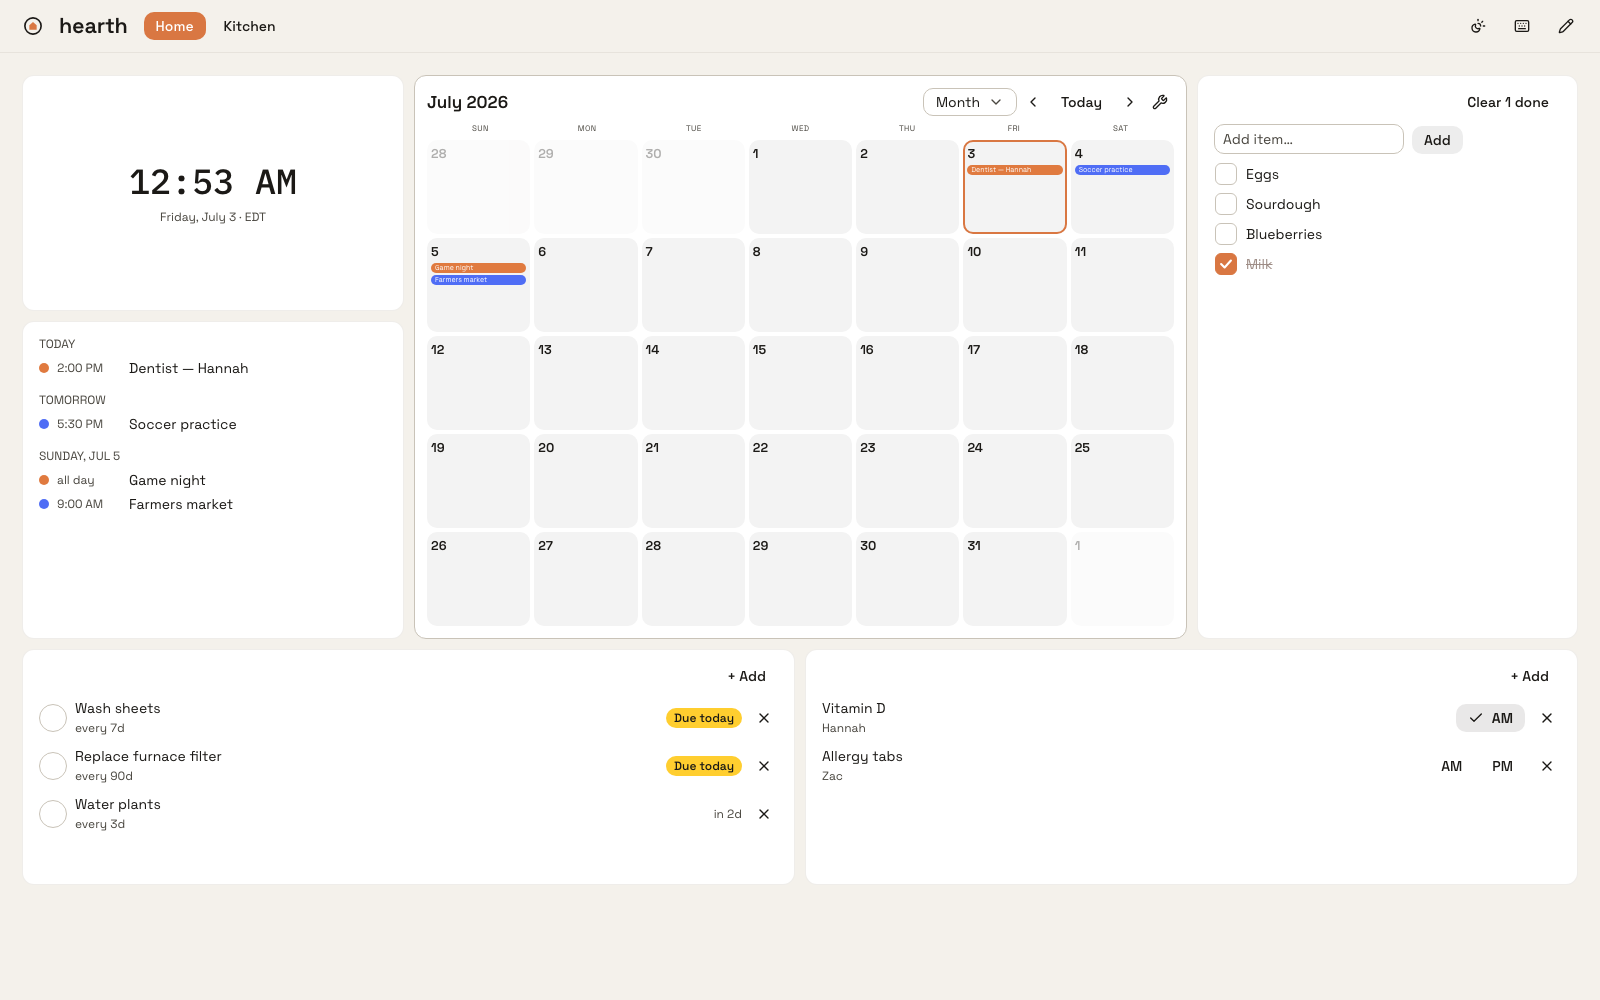
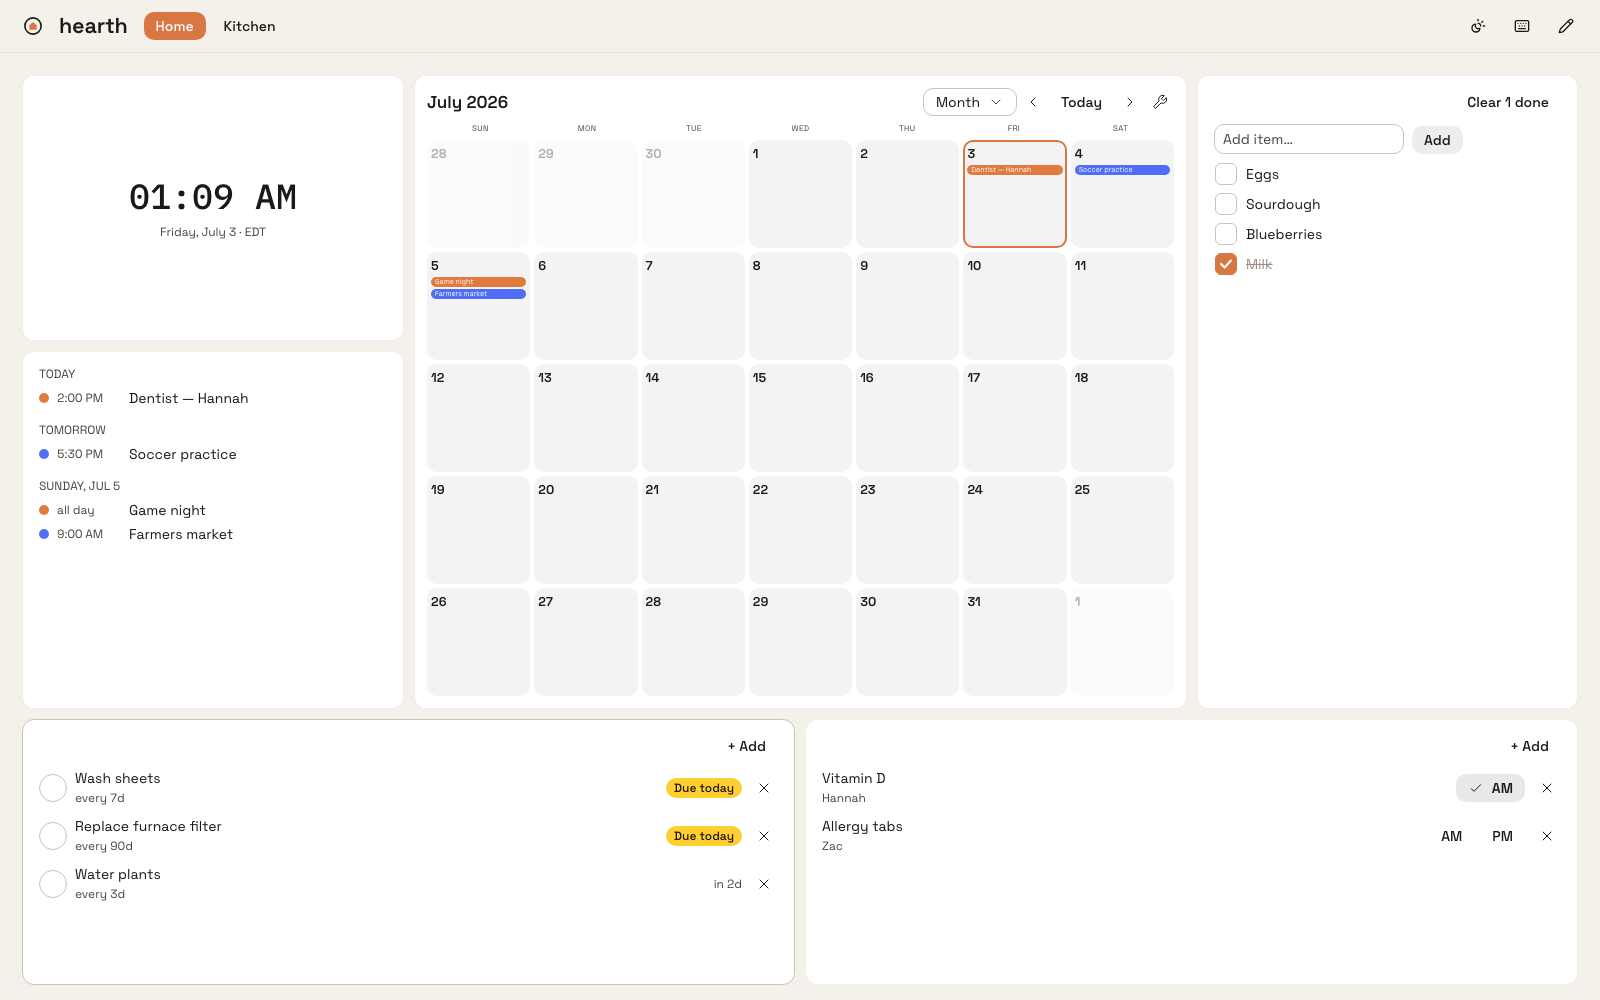
feat(brand): OLED near-black dark mode; proper pre-built theme wiring
Dark mode moves from warm Char to a bottomless neutral: body #0C0C0C
with cards lifted to #1B1B1B, neutral grey secondaries and borders —
chosen from five on-board candidates; ember reads hotter against the
void and warmth now lives in ember alone. Light mode keeps the
Paper/Char guideline palette. The brand-guard test still holds every
neutral-role token to zero warm saturation.

Theme wiring now uses the CLI's full output: astryx theme build emits
theme.css AND a prebuilt hearth.js module; the app imports that pair,
replacing the hand-rolled __built marker. Generated artifacts are
excluded from oxfmt — fixing the red CI check. README heroes re-shot
on the 24-column grid.

diff --git a/web/src/hearth.js b/web/src/hearth.js
@@ -1,0 +1,193 @@
+/**
+ * @generated by `astryx theme build` — do not edit manually.
+ * Source: src/theme.ts
+ * Command: astryx theme build src/theme.ts --out src/theme.css
+ * Generated: 2026-07-03T05:08:05.747Z
+ */
+
+/**
+ * hearth theme — built by `bunx astryx theme build`
+ * Import the CSS file alongside this module:
+ *
+ *   import { hearthTheme } from './hearth';
+ *   import './hearth.css';
+ */
+export const hearthTheme = {
+  name: 'hearth',
+  __built: true,
+  tokens: {
+    "--font-size-4xs": "0.375rem",
+    "--font-size-3xs": "0.4375rem",
+    "--font-size-2xs": "0.5rem",
+    "--font-size-xs": "0.625rem",
+    "--font-size-sm": "0.75rem",
+    "--font-size-base": "0.875rem",
+    "--font-size-lg": "1.0625rem",
+    "--font-size-xl": "1.25rem",
+    "--font-size-2xl": "1.5rem",
+    "--font-size-3xl": "1.8125rem",
+    "--font-size-4xl": "2.1875rem",
+    "--font-size-5xl": "2.625rem",
+    "--text-heading-1-size": "var(--font-size-2xl)",
+    "--text-heading-1-weight": "var(--font-weight-semibold)",
+    "--text-heading-1-leading": "1.3333",
+    "--text-heading-2-size": "var(--font-size-xl)",
+    "--text-heading-2-weight": "var(--font-weight-semibold)",
+    "--text-heading-2-leading": "1.4",
+    "--text-heading-3-size": "var(--font-size-lg)",
+    "--text-heading-3-weight": "var(--font-weight-bold)",
+    "--text-heading-3-leading": "1.4118",
+    "--text-heading-4-size": "var(--font-size-base)",
+    "--text-heading-4-weight": "var(--font-weight-bold)",
+    "--text-heading-4-leading": "1.4286",
+    "--text-heading-5-size": "var(--font-size-sm)",
+    "--text-heading-5-weight": "var(--font-weight-semibold)",
+    "--text-heading-5-leading": "1.6667",
+    "--text-heading-6-size": "var(--font-size-xs)",
+    "--text-heading-6-weight": "var(--font-weight-semibold)",
+    "--text-heading-6-leading": "1.6",
+    "--text-body-size": "var(--font-size-base)",
+    "--text-body-weight": "var(--font-weight-normal)",
+    "--text-body-leading": "1.4286",
+    "--text-large-size": "var(--font-size-lg)",
+    "--text-large-weight": "var(--font-weight-semibold)",
+    "--text-large-leading": "1.4118",
+    "--text-label-size": "var(--font-size-base)",
+    "--text-label-weight": "var(--font-weight-medium)",
+    "--text-label-leading": "1.4286",
+    "--text-code-size": "var(--font-size-base)",
+    "--text-code-weight": "var(--font-weight-normal)",
+    "--text-code-leading": "1.4286",
+    "--text-supporting-size": "var(--font-size-sm)",
+    "--text-supporting-weight": "var(--font-weight-normal)",
+    "--text-supporting-leading": "1.6667",
+    "--text-display-1-size": "var(--font-size-5xl)",
+    "--text-display-1-weight": "var(--font-weight-normal)",
+    "--text-display-1-leading": "1.2381",
+    "--text-display-2-size": "var(--font-size-4xl)",
+    "--text-display-2-weight": "var(--font-weight-normal)",
+    "--text-display-2-leading": "1.2571",
+    "--text-display-3-size": "var(--font-size-3xl)",
+    "--text-display-3-weight": "var(--font-weight-normal)",
+    "--text-display-3-leading": "1.3793",
+    "--duration-fast-min": "95ms",
+    "--duration-fast": "125ms",
+    "--duration-fast-max": "165ms",
+    "--duration-medium-min": "225ms",
+    "--duration-medium": "300ms",
+    "--duration-medium-max": "400ms",
+    "--duration-slow-min": "525ms",
+    "--duration-slow": "700ms",
+    "--duration-slow-max": "935ms",
+    "--font-family-body": "\"Space Grotesk\", system-ui, sans-serif",
+    "--font-family-heading": "\"Space Grotesk\", system-ui, sans-serif",
+    "--font-family-code": "\"IBM Plex Mono\", ui-monospace, monospace",
+    "--color-syntax-keyword": "light-dark(#700084, #efa8ff)",
+    "--color-syntax-string": "light-dark(#005600, #a6d2a2)",
+    "--color-syntax-comment": "light-dark(#737373, #a3a3a3)",
+    "--color-syntax-number": "light-dark(#6e3500, #ffb37f)",
+    "--color-syntax-function": "light-dark(#00458c, #a0caff)",
+    "--color-syntax-type": "light-dark(#700084, #efa8ff)",
+    "--color-syntax-variable": "light-dark(#171717, #e5e5e5)",
+    "--color-syntax-operator": "light-dark(#737373, #a3a3a3)",
+    "--color-syntax-constant": "light-dark(#6e3500, #ffb37f)",
+    "--color-syntax-tag": "light-dark(#89001a, #ffaeaa)",
+    "--color-syntax-attribute": "light-dark(#584400, #eec12f)",
+    "--color-syntax-property": "light-dark(#005348, #83dac9)",
+    "--color-syntax-punctuation": "light-dark(#a3a3a3, #525252)",
+    "--color-syntax-background": "light-dark(#fafafa, #0a0a0a)",
+    "--color-background-surface": "light-dark(#FFFFFF, #1B1B1B)",
+    "--color-background-body": "light-dark(#F4F1EB, #0C0C0C)",
+    "--color-background-card": "light-dark(#FFFFFF, #1B1B1B)",
+    "--color-background-popover": "light-dark(#FFFFFF, #222222)",
+    "--color-background-muted": "light-dark(#1B19160D, #FFFFFF0F)",
+    "--color-accent": "light-dark(#D97742, #D97742)",
+    "--color-accent-muted": "light-dark(#D9774233, #E8A87C3F)",
+    "--color-neutral": "light-dark(#1B191614, #FFFFFF1F)",
+    "--color-overlay": "light-dark(#1B191666, #000000A6)",
+    "--color-overlay-hover": "light-dark(#1B19160C, #FFFFFF0C)",
+    "--color-overlay-pressed": "light-dark(#1B191619, #FFFFFF17)",
+    "--color-text-primary": "light-dark(#1B1916, #F4F1EB)",
+    "--color-text-secondary": "light-dark(#4A4740, #ABABA6)",
+    "--color-text-disabled": "light-dark(#9E8D86, #6A5B54)",
+    "--color-text-accent": "light-dark(#7F2C00, #FFB58E)",
+    "--color-on-dark": "#ffffff",
+    "--color-on-light": "#171717",
+    "--color-on-accent": "light-dark(#FFFFFF, #1B1916)",
+    "--color-on-success": "light-dark(#ffffff, #171717)",
+    "--color-on-error": "light-dark(#ffffff, #171717)",
+    "--color-on-warning": "#171717",
+    "--color-icon-accent": "light-dark(#9C4411, #FFB58E)",
+    "--color-icon-primary": "light-dark(#1B1916, #F4F1EB)",
+    "--color-icon-secondary": "light-dark(#4A4740, #ABABA6)",
+    "--color-icon-disabled": "light-dark(#9E8D86, #6A5B54)",
+    "--color-success": "light-dark(#007004, #9fe59b)",
+    "--color-error": "light-dark(#a50c25, #ffc6c1)",
+    "--color-warning": "light-dark(#745b00, #fdcf4f)",
+    "--color-success-muted": "light-dark(#c5e5c0, #84c9803D)",
+    "--color-error-muted": "light-dark(#facecb, #ff9e973D)",
+    "--color-warning-muted": "light-dark(#f8da9d, #deb4333D)",
+    "--color-border": "light-dark(#C9C3B84D, #FFFFFF14)",
+    "--color-border-emphasized": "light-dark(#C9C3B8, #3A3A3A)",
+    "--color-skeleton": "light-dark(#C9C3B8, #3A3A3A)",
+    "--color-shadow": "light-dark(#0000001A, #0000004D)",
+    "--color-tint-hover": "light-dark(black, white)",
+    "--color-background-red": "light-dark(#facecb, #ff9e973D)",
+    "--color-border-red": "light-dark(#e6bab8, #ff6f6c)",
+    "--color-icon-red": "light-dark(#89001a, #ff9e97)",
+    "--color-text-red": "light-dark(#89001a, #ffc6c1)",
+    "--color-background-orange": "light-dark(#fad0b5, #ffa2583D)",
+    "--color-border-orange": "light-dark(#e6bda2, #e2883e)",
+    "--color-icon-orange": "light-dark(#6e3500, #ffa258)",
+    "--color-text-orange": "light-dark(#6e3500, #ffc9a2)",
+    "--color-background-yellow": "light-dark(#f8da9d, #deb4333D)",
+    "--color-border-yellow": "light-dark(#e4c279, #c0990e)",
+    "--color-icon-yellow": "light-dark(#584400, #deb433)",
+    "--color-text-yellow": "light-dark(#584400, #fdcf4f)",
+    "--color-background-green": "light-dark(#c5e5c0, #84c9803D)",
+    "--color-border-green": "light-dark(#b2d1ac, #69ad67)",
+    "--color-icon-green": "light-dark(#0c5700, #84c980)",
+    "--color-text-green": "light-dark(#0c5700, #9fe59b)",
+    "--color-background-teal": "light-dark(#a5e3d6, #7ec6b83D)",
+    "--color-border-teal": "light-dark(#94d6c8, #63ab9d)",
+    "--color-icon-teal": "light-dark(#005348, #7ec6b8)",
+    "--color-text-teal": "light-dark(#005348, #99e2d3)",
+    "--color-background-cyan": "light-dark(#a3e0ef, #83c2d43D)",
+    "--color-border-cyan": "light-dark(#91d3e3, #67a7b8)",
+    "--color-icon-cyan": "light-dark(#00505f, #83c2d4)",
+    "--color-text-cyan": "light-dark(#00505f, #9edef0)",
+    "--color-background-blue": "light-dark(#c4ddfb, #9eb7ff3D)",
+    "--color-border-blue": "light-dark(#b1c9e7, #6d9cfe)",
+    "--color-icon-blue": "light-dark(#00458c, #9eb7ff)",
+    "--color-text-blue": "light-dark(#00458c, #c7d3ff)",
+    "--color-background-purple": "light-dark(#eccef3, #f297ff3D)",
+    "--color-border-purple": "light-dark(#d8bbdf, #dd74f0)",
+    "--color-icon-purple": "light-dark(#700084, #f297ff)",
+    "--color-text-purple": "light-dark(#700084, #fac1ff)",
+    "--color-background-pink": "light-dark(#fccadc, #ff99c33D)",
+    "--color-border-pink": "light-dark(#e7b7c8, #f273aa)",
+    "--color-icon-pink": "light-dark(#83004b, #ff99c3)",
+    "--color-text-pink": "light-dark(#83004b, #ffc3da)",
+    "--color-background-gray": "light-dark(#e5e5e5, var(--color-neutral))",
+    "--color-border-gray": "light-dark(#d4d4d4, #262626)",
+    "--color-icon-gray": "light-dark(#525252, #a3a3a3)",
+    "--color-text-gray": "light-dark(#262626, #e5e5e5)",
+    "--radius-none": "0.25rem",
+    "--radius-inner": "0.375rem",
+    "--radius-element": "0.625rem",
+    "--radius-container": "0.75rem",
+    "--radius-page": "1.75rem",
+    "--radius-full": "9999px",
+    "--shadow-low": "0 2px 4px light-dark(oklch(0 0 0 / 5%), oklch(0 0 0 / 25%)), 0 4px 8px light-dark(oklch(0 0 0 / 10%), oklch(0 0 0 / 40%)), inset 0 0 0 1px light-dark(transparent, oklch(1 0 0 / 8%))",
+    "--shadow-med": "0 2px 4px light-dark(oklch(0 0 0 / 5%), oklch(0 0 0 / 35%)), 0 4px 12px light-dark(oklch(0 0 0 / 10%), oklch(0 0 0 / 50%)), inset 0 0 0 1px light-dark(transparent, oklch(1 0 0 / 12%))",
+    "--shadow-high": "0 4px 6px light-dark(oklch(0 0 0 / 10%), oklch(0 0 0 / 50%)), 0 12px 24px light-dark(oklch(0 0 0 / 15%), oklch(0 0 0 / 70%)), inset 0 0 0 1px light-dark(transparent, oklch(1 0 0 / 15%))",
+    "--shadow-inset-hover": "inset 0px 0px 0px 2px #0074e24D",
+    "--shadow-inset-selected": "inset 0px 0px 0px 2px #0074e280",
+    "--shadow-inset-success": "inset 0px 0px 0px 2px #1981004D",
+    "--shadow-inset-warning": "inset 0px 0px 0px 2px #ffce2f4D",
+    "--shadow-inset-error": "inset 0px 0px 0px 2px #e33f4a4D",
+    "--color-background-inverted": "light-dark(#1B1916, #F4F1EB)",
+    "--color-track": "light-dark(#C9C3B8, #3A3A3A)"
+  },
+
+};

diff --git a/web/src/theme.ts b/web/src/theme.ts
@@ -16,34 +16,38 @@ const theme = defineTheme({
     code: { family: "IBM Plex Mono", fallbacks: "ui-monospace, monospace" },
   },
   tokens: {
-    // (light, dark)
-    "--color-background-body": ["#F4F1EB", "#1B1916"], // Paper / Char
-    "--color-background-surface": ["#FFFFFF", "#201E1C"],
-    "--color-background-card": ["#FFFFFF", "#201E1C"],
-    "--color-background-muted": ["#1B19160D", "#F4F1EB0F"],
+    // (light, dark). Dark mode is OLED near-black: a bottomless neutral
+    // body with clearly lifted neutral cards — chosen over warm Char after
+    // on-board comparison; ember reads hotter against the void, and warmth
+    // stays where the brand wants it: in ember alone. Light mode keeps the
+    // Paper/Char doc palette.
+    "--color-background-body": ["#F4F1EB", "#0C0C0C"], // Paper / near-black
+    "--color-background-surface": ["#FFFFFF", "#1B1B1B"],
+    "--color-background-card": ["#FFFFFF", "#1B1B1B"],
+    "--color-background-muted": ["#1B19160D", "#FFFFFF0F"],
     "--color-text-primary": ["#1B1916", "#F4F1EB"], // Char / Paper
-    "--color-text-secondary": ["#4A4740", "#C9C3B8"], // Iron / Stone
-    "--color-border": ["#C9C3B84D", "#F4F1EB1A"],
-    "--color-border-emphasized": ["#C9C3B8", "#4A4740"], // Stone / Iron
+    "--color-text-secondary": ["#4A4740", "#ABABA6"], // Iron / neutral grey
+    "--color-border": ["#C9C3B84D", "#FFFFFF14"],
+    "--color-border-emphasized": ["#C9C3B8", "#3A3A3A"], // Stone / graphite
     "--color-accent": ["#D97742", "#D97742"], // Ember, accent only
     "--color-accent-muted": ["#D9774233", "#E8A87C3F"], // glow tints
     "--color-on-accent": ["#FFFFFF", "#1B1916"],
     // The color scale derives unlisted tokens from the ember hue, which
     // turns neutral ROLES brown. Pin every neutral role to the brand's
     // actual neutrals (guarded by theme.test.ts).
-    "--color-neutral": ["#1B191614", "#F4F1EB21"],
+    "--color-neutral": ["#1B191614", "#FFFFFF1F"],
     "--color-overlay": ["#1B191666", "#000000A6"],
-    "--color-overlay-hover": ["#1B19160C", "#F4F1EB0C"],
-    "--color-overlay-pressed": ["#1B191619", "#F4F1EB19"],
+    "--color-overlay-hover": ["#1B19160C", "#FFFFFF0C"],
+    "--color-overlay-pressed": ["#1B191619", "#FFFFFF17"],
     "--color-icon-primary": ["#1B1916", "#F4F1EB"],
-    "--color-icon-secondary": ["#4A4740", "#C9C3B8"],
-    "--color-background-popover": ["#FFFFFF", "#242220"],
+    "--color-icon-secondary": ["#4A4740", "#ABABA6"],
+    "--color-background-popover": ["#FFFFFF", "#222222"],
     "--color-background-inverted": ["#1B1916", "#F4F1EB"],
-    "--color-skeleton": ["#C9C3B8", "#4A4740"],
-    "--color-track": ["#C9C3B8", "#4A4740"],
+    "--color-skeleton": ["#C9C3B8", "#3A3A3A"],
+    "--color-track": ["#C9C3B8", "#3A3A3A"],
   },
 });
 
-// Marked pre-built: styles come from ./theme.css (regenerate with
-// `bun run theme:build` after editing this file).
-export const hearthTheme = Object.assign(theme, { __built: true });
+// Source of truth for `bun run theme:build`, which generates theme.css and
+// hearth.js — the app imports the generated pair, never this file directly.
+export const hearthTheme = theme;

diff --git a/web/src/theme.css b/web/src/theme.css
@@ -2,7 +2,7 @@
  * @generated by `astryx theme build` — do not edit manually.
  * Source: src/theme.ts
  * Command: astryx theme build src/theme.ts --out src/theme.css
- * Generated: 2026-07-03T04:51:56.303Z
+ * Generated: 2026-07-03T05:08:05.744Z
  */
 
 @layer reset {
@@ -161,19 +161,19 @@
     --color-syntax-property: light-dark(#005348, #83dac9);
     --color-syntax-punctuation: light-dark(#a3a3a3, #525252);
     --color-syntax-background: light-dark(#fafafa, #0a0a0a);
-    --color-background-surface: light-dark(#FFFFFF, #201E1C);
-    --color-background-body: light-dark(#F4F1EB, #1B1916);
-    --color-background-card: light-dark(#FFFFFF, #201E1C);
-    --color-background-popover: light-dark(#FFFFFF, #242220);
-    --color-background-muted: light-dark(#1B19160D, #F4F1EB0F);
+    --color-background-surface: light-dark(#FFFFFF, #1B1B1B);
+    --color-background-body: light-dark(#F4F1EB, #0C0C0C);
+    --color-background-card: light-dark(#FFFFFF, #1B1B1B);
+    --color-background-popover: light-dark(#FFFFFF, #222222);
+    --color-background-muted: light-dark(#1B19160D, #FFFFFF0F);
     --color-accent: light-dark(#D97742, #D97742);
     --color-accent-muted: light-dark(#D9774233, #E8A87C3F);
-    --color-neutral: light-dark(#1B191614, #F4F1EB21);
+    --color-neutral: light-dark(#1B191614, #FFFFFF1F);
     --color-overlay: light-dark(#1B191666, #000000A6);
-    --color-overlay-hover: light-dark(#1B19160C, #F4F1EB0C);
-    --color-overlay-pressed: light-dark(#1B191619, #F4F1EB19);
+    --color-overlay-hover: light-dark(#1B19160C, #FFFFFF0C);
+    --color-overlay-pressed: light-dark(#1B191619, #FFFFFF17);
     --color-text-primary: light-dark(#1B1916, #F4F1EB);
-    --color-text-secondary: light-dark(#4A4740, #C9C3B8);
+    --color-text-secondary: light-dark(#4A4740, #ABABA6);
     --color-text-disabled: light-dark(#9E8D86, #6A5B54);
     --color-text-accent: light-dark(#7F2C00, #FFB58E);
     --color-on-dark: #ffffff;
@@ -184,7 +184,7 @@
     --color-on-warning: #171717;
     --color-icon-accent: light-dark(#9C4411, #FFB58E);
     --color-icon-primary: light-dark(#1B1916, #F4F1EB);
-    --color-icon-secondary: light-dark(#4A4740, #C9C3B8);
+    --color-icon-secondary: light-dark(#4A4740, #ABABA6);
     --color-icon-disabled: light-dark(#9E8D86, #6A5B54);
     --color-success: light-dark(#007004, #9fe59b);
     --color-error: light-dark(#a50c25, #ffc6c1);
@@ -192,9 +192,9 @@
     --color-success-muted: light-dark(#c5e5c0, #84c9803D);
     --color-error-muted: light-dark(#facecb, #ff9e973D);
     --color-warning-muted: light-dark(#f8da9d, #deb4333D);
-    --color-border: light-dark(#C9C3B84D, #F4F1EB1A);
-    --color-border-emphasized: light-dark(#C9C3B8, #4A4740);
-    --color-skeleton: light-dark(#C9C3B8, #4A4740);
+    --color-border: light-dark(#C9C3B84D, #FFFFFF14);
+    --color-border-emphasized: light-dark(#C9C3B8, #3A3A3A);
+    --color-skeleton: light-dark(#C9C3B8, #3A3A3A);
     --color-shadow: light-dark(#0000001A, #0000004D);
     --color-tint-hover: light-dark(black, white);
     --color-background-red: light-dark(#facecb, #ff9e973D);
@@ -252,7 +252,7 @@
     --shadow-inset-warning: inset 0px 0px 0px 2px #ffce2f4D;
     --shadow-inset-error: inset 0px 0px 0px 2px #e33f4a4D;
     --color-background-inverted: light-dark(#1B1916, #F4F1EB);
-    --color-track: light-dark(#C9C3B8, #4A4740);
+    --color-track: light-dark(#C9C3B8, #3A3A3A);
   }
 
   .astryx-heading.level-1 {

diff --git a/web/src/hearth.variants.d.ts b/web/src/hearth.variants.d.ts
@@ -1,0 +1,26 @@
+/**
+ * @generated by `astryx theme build` — do not edit manually.
+ * Source: src/theme.ts
+ * Command: astryx theme build src/theme.ts --out src/theme.css
+ * Generated: 2026-07-03T05:08:05.754Z
+ */
+
+// Generated by astryx theme build
+export {};
+
+declare module '@astryxdesign/core/Heading' {
+  interface XDSHeadingLevelMap {
+    '1': true;
+    '2': true;
+    '3': true;
+    '4': true;
+    '5': true;
+    '6': true;
+  }
+}
+
+declare module '@astryxdesign/core/Badge' {
+  interface XDSBadgeVariantMap {
+    'gray': true;
+  }
+}

diff --git a/web/src/hearth.d.ts b/web/src/hearth.d.ts
@@ -1,0 +1,9 @@
+/**
+ * @generated by `astryx theme build` — do not edit manually.
+ * Source: src/theme.ts
+ * Command: astryx theme build src/theme.ts --out src/theme.css
+ * Generated: 2026-07-03T05:08:05.747Z
+ */
+
+import type { DefinedTheme } from '@astryxdesign/core/theme';
+export declare const hearthTheme: DefinedTheme;

diff --git a/web/src/main.tsx b/web/src/main.tsx
@@ -9,7 +9,7 @@ import "@fontsource/ibm-plex-mono/500.css";
 import "react-grid-layout/css/styles.css";
 import "./index.css"; // Astryx + Tailwind layers live here
 import App from "./App";
-import { hearthTheme } from "./theme";
+import { hearthTheme } from "./hearth";
 import { applyFavicon, useThemeMode } from "./themeMode";
 
 function Root() {